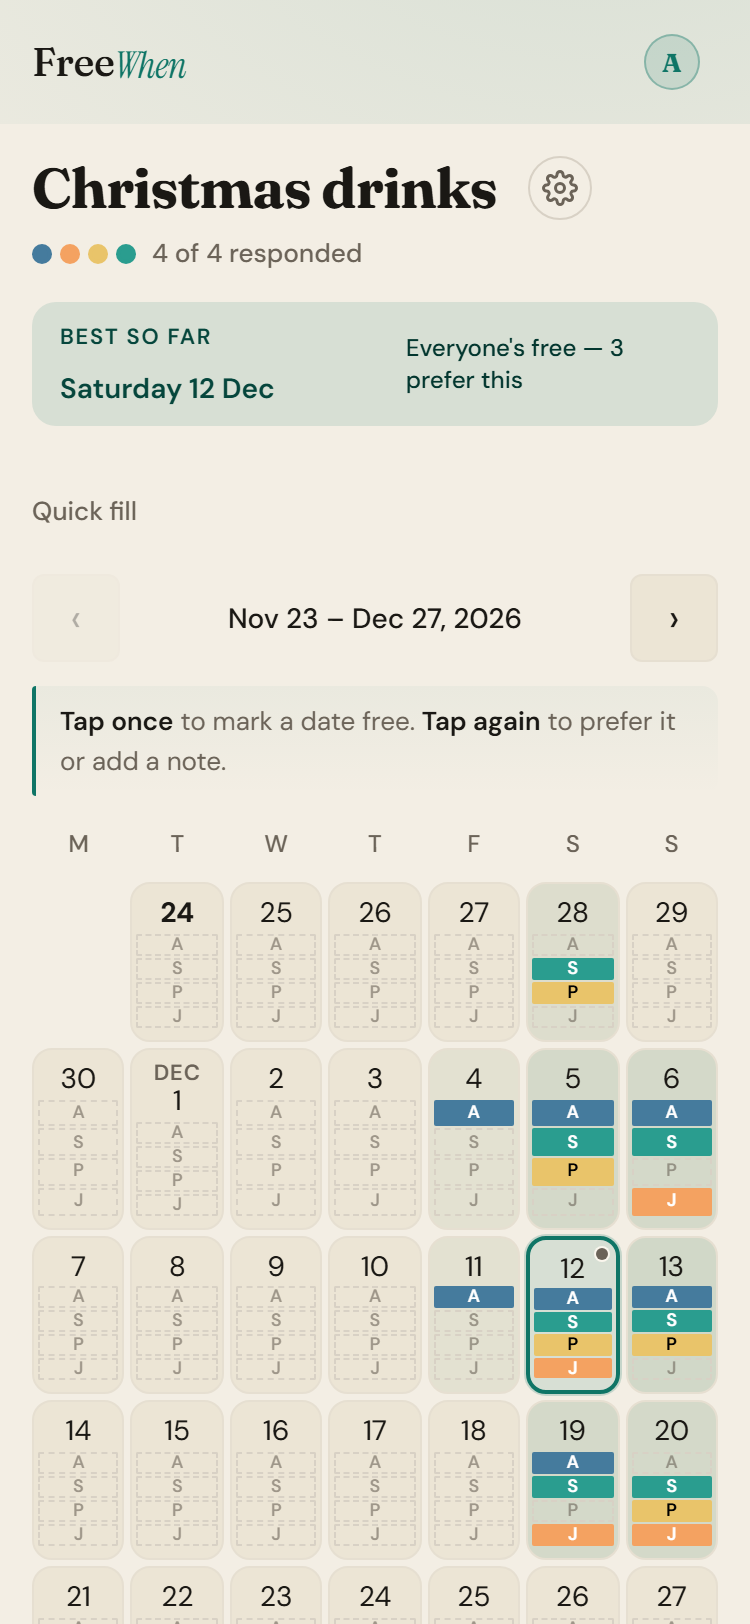
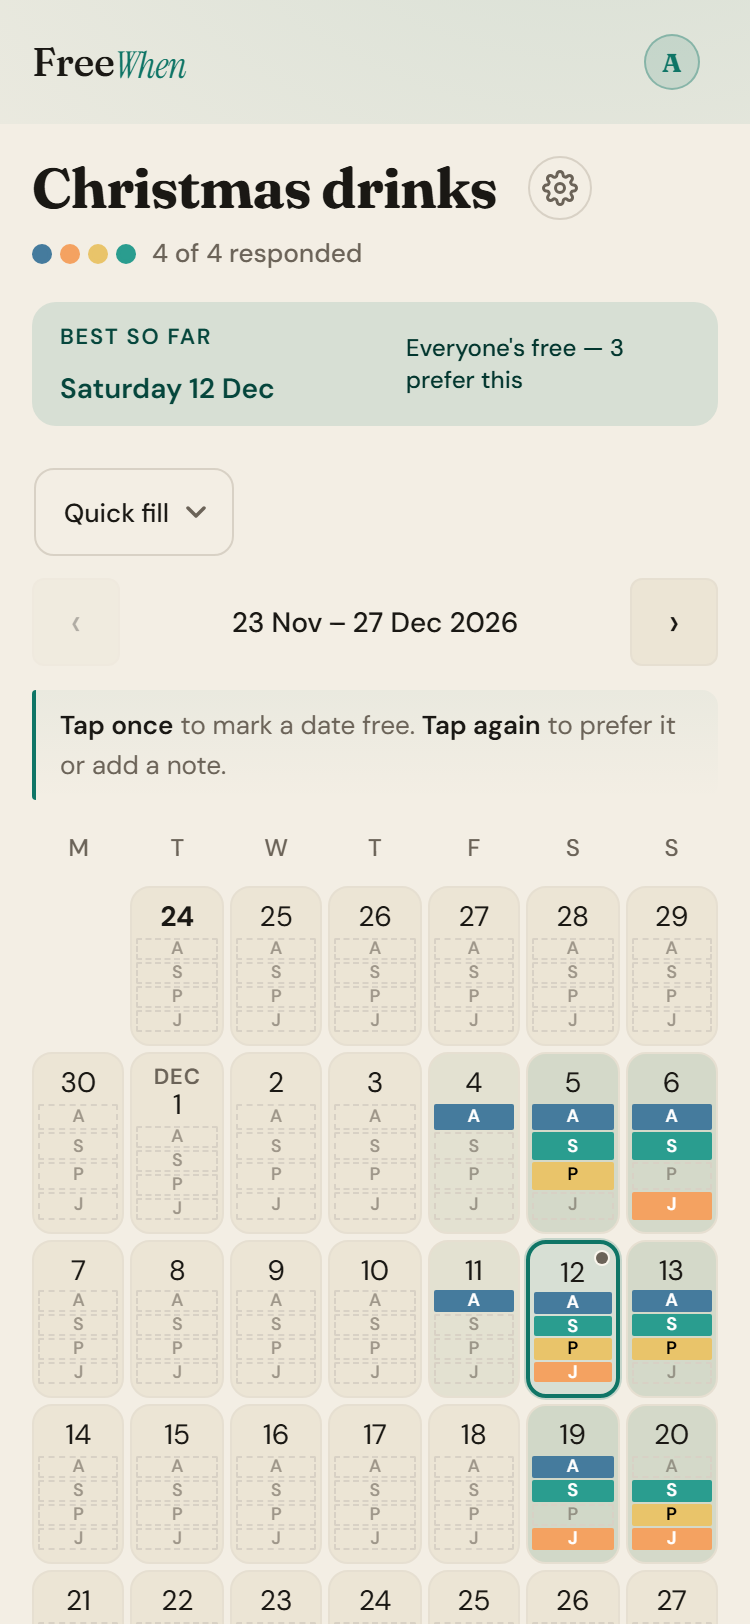
docs: README screenshots as one row of four fresh phone shots (#128)
* docs: refresh README screenshots and fill the empty table cell

The second row of the screenshot table had an empty third cell, and the
shots predated the UI fixes stack (plain Quick fill, mixed date orders,
the day sheet's focused note field). Retake all 12 on main in en-GB and
add a Settings shot with the new emoji picker in the empty cell. Demo
calendars get themed emojis, plus a fifth calendar so My calendars
fills the frame.

* docs: use #120's one-row README layout with the fresh shots

Fold in #120: one centred row of four phone shots instead of the table
(borders and the zoomed-out desktop shot looked broken in GitHub dark
mode), drop the desktop, My calendars and Settings shots, and fix the
Go prerequisite (1.23+ → 1.27+). The four remaining shots are the ones
retaken on main after the UI fixes stack.

* docs: retake finalised README shots with the banner dot fix

Sam's dot sat between the two lines of a wrapped note. Shot from
ui/banner-note-dot (#129) so the README shows the fixed banner.

---------

diff --git a/README.md b/README.md
@@ -6,15 +6,14 @@ Create a calendar, share the link, mark your available days. See everyone's avai
 
 ## Screenshots
 
-Mobile first: four friends picking a date for Christmas drinks (demo data).
+Four friends picking a date for Christmas drinks (demo data): create, mark your days, check a date, finalise.
 
-| Landing | Calendar | Day sheet |
-|:---:|:---:|:---:|
-| <picture><source media="(prefers-color-scheme: dark)" srcset="docs/screenshots/landing-mobile-dark.png"><img src="docs/screenshots/landing-mobile.png" width="240" alt="Landing page on a phone: 'Find when everyone's free' headline, an animated availability grid, and an event name field with a Create button"></picture> | <picture><source media="(prefers-color-scheme: dark)" srcset="docs/screenshots/calendar-mobile-dark.png"><img src="docs/screenshots/calendar-mobile.png" width="240" alt="Christmas drinks calendar on a phone: 4 of 4 responded, 'Best so far: Saturday 12 Dec', and a five-week grid with each person's free days as coloured initials"></picture> | <picture><source media="(prefers-color-scheme: dark)" srcset="docs/screenshots/day-sheet-mobile-dark.png"><img src="docs/screenshots/day-sheet-mobile.png" width="240" alt="Day sheet for Saturday 12 December listing the four people free, their preferred-date stars and notes, with a 'Prefer this date' checkbox and a note field"></picture> |
-| **Finalised** | **My calendars** | |
-| <picture><source media="(prefers-color-scheme: dark)" srcset="docs/screenshots/finalised-mobile-dark.png"><img src="docs/screenshots/finalised-mobile.png" width="240" alt="Finalised book club calendar: a 'Confirmed: Thursday 3 December' banner with a note and Add to Google Calendar / Download .ics buttons above the grid"></picture> | <picture><source media="(prefers-color-scheme: dark)" srcset="docs/screenshots/my-calendars-mobile-dark.png"><img src="docs/screenshots/my-calendars-mobile.png" width="240" alt="My calendars list with three calendars, people counts, last updated times, and the confirmed date on the finalised one"></picture> | |
-
-<picture><source media="(prefers-color-scheme: dark)" srcset="docs/screenshots/calendar-desktop-dark.png"><img src="docs/screenshots/calendar-desktop.png" width="720" alt="The Christmas drinks calendar on a desktop browser: the same grid laid out wider, with full day names and the best date highlighted"></picture>
+<p align="center">
+  <picture><source media="(prefers-color-scheme: dark)" srcset="docs/screenshots/landing-mobile-dark.png"><img src="docs/screenshots/landing-mobile.png" width="200" alt="Landing page on a phone: 'Find when everyone's free' headline, an animated availability grid, and an event name field with a Create button"></picture>
+  <picture><source media="(prefers-color-scheme: dark)" srcset="docs/screenshots/calendar-mobile-dark.png"><img src="docs/screenshots/calendar-mobile.png" width="200" alt="Christmas drinks calendar on a phone: 4 of 4 responded, 'Best so far: Saturday 12 Dec', a Quick fill menu, and a five-week grid with each person's free days as coloured initials"></picture>
+  <picture><source media="(prefers-color-scheme: dark)" srcset="docs/screenshots/day-sheet-mobile-dark.png"><img src="docs/screenshots/day-sheet-mobile.png" width="200" alt="Day sheet for Saturday 12 December listing the four people free, their preferred-date stars and notes, with a 'Prefer this date' checkbox and a note field"></picture>
+  <picture><source media="(prefers-color-scheme: dark)" srcset="docs/screenshots/finalised-mobile-dark.png"><img src="docs/screenshots/finalised-mobile.png" width="200" alt="Finalised book club calendar: a 'Confirmed: Thursday 3 December' banner with notes from Alex and Sam, and Add to Google Calendar / Download .ics buttons above the grid"></picture>
+</p>
 
 ## Stack
 
@@ -26,7 +25,7 @@ Mobile first: four friends picking a date for Christmas drinks (demo data).
 
 ## Prerequisites
 
-- Go 1.23+
+- Go 1.27+ (see `backend/go.mod`)
 - Node 24 LTS (see `.nvmrc`) with pnpm via Corepack
 - A hosted Postgres database (Neon, Supabase, Railway, etc.)
 

diff --git a/plans/ui/readme-screenshots.md b/plans/ui/readme-screenshots.md
@@ -24,3 +24,7 @@ The repo is public; give visitors a look at the app before they clone it. Add a 
 - 2026-11-24 10:40 — Follow-up: dark-mode variants requested. Rebased on main (Next 16.4.6, Go 1.27.4; installed the matching Playwright Chromium). Renamed the demo calendar "Summer BBQ" to "Christmas drinks" (its dates are in December), re-seeded and retook the light set
 - 2026-11-24 10:55 — Captured dark set (`colorScheme: "dark"`; the app honours prefers-color-scheme). The dark-mode grain overlay (`body::after` noise) pushed dark PNGs to ~1 MB, so both sets are shot with `reducedMotion: "reduce"`, which the app already uses to hide the grain (invisible at 2.5% opacity). All 12 files 100–255 KB
 - 2026-11-24 11:05 — README images wrapped in `<picture>` with `-dark.png` sources; `make lint` and `make test` pass; servers, embedded Postgres and temp dir cleaned up
+- 2026-11-24 11:07 — Owner review (#120): the table rendered badly in GitHub dark mode (cell borders, an empty sixth cell, a zoomed-out desktop shot underneath). Replaced it with one centred row of four phone shots (landing, calendar, day sheet, finalised) and dropped the desktop and My calendars shots. Also fixed the README Go prerequisite (1.23+ → 1.27+).
+- 2026-11-24 14:45 — Refreshed after the UI fixes stack (#122–#126) merged, folding in #120's layout. The shots showed old UI: the plain "Quick fill", month-first nav dates next to day-first ones, and the day sheet with the note field focused. Retook the four phone shots on `main` in `en-GB` (dates now follow the browser locale), light and dark, and gave the demo calendars themed emojis (🎄 📚). Kept #120's layout and Go fix. All 8 files are 114–177 KB.
+- Spotted while capturing: the landing page's decorative mini-grid hard-codes "NOV 23 — NOV 29", month-first, regardless of locale. Left as is; it's app code, not docs.
+- 2026-11-24 15:30 — Owner spotted Sam's banner dot sitting between the two lines of a wrapped note in the finalised shot. Fixed in #129 (`ui/banner-note-dot`); retook `finalised-mobile` (light and dark) from that branch so the README doesn't show the bug. The other six shots don't include the banner and are unchanged.
